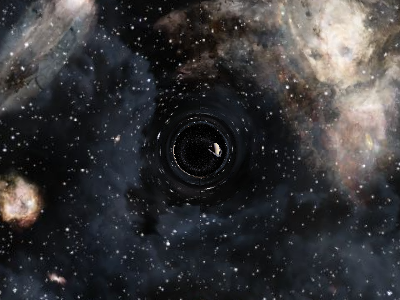
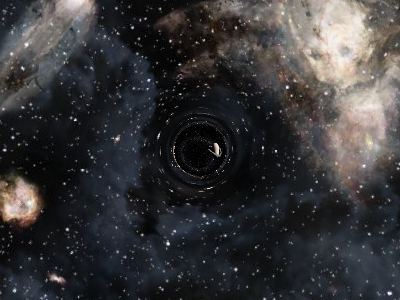
.

Changed region(s): [[0.42, 0.48, 0.45, 0.54], [0.54, 0.48, 0.57, 0.51]]

diff --git a/src/main.cpp b/src/main.cpp
@@ -6,6 +6,8 @@
 #include <vector>
 #include <iostream>
 #include <cmath>
+#include <glm/glm.hpp>
+#include <glm/gtc/matrix_transform.hpp>
 
 #include "src/utils/rgba.h"
 #include "src/raytrace.h"
@@ -77,6 +79,134 @@ RGBA sampleCelestial(const ImageData &img, double theta, double phi)
     return img.pixels[y * img.width + x];
 }
 
+// this function traces the rays using the equatorial symmetry method
+// see https://www.youtube.com/watch?v=PVO8nvb1o2w for the explanation of this method
+void renderEquatorial(RGBA *framebuffer,
+    int outWidth,
+    int outHeight,
+    const ImageData &sphereUpper,
+    const ImageData &sphereLower,
+    double fovW,
+    WormholeParams wp,
+    double dt,
+    double cameraDistance) {
+
+    // Camera setup
+    const double l_c     = cameraDistance;
+    const double theta_c = M_PI / 2.0; // equatorial
+    const double phi_c   = 0; // will eventually make changes to this
+
+    // Aspect ratio and vertical FOV
+    double aspect   = static_cast<double>(outHeight) / static_cast<double>(outWidth);
+
+    // Loop over pixels
+    double planeWidth = tan(fovW * 0.5);
+    double planeHeight = planeWidth * aspect;
+    double lengthDiagonal = sqrt(planeWidth*planeWidth + planeHeight*planeHeight);
+
+    // Integration constants (-0.01 seems good enough, but very slow...)
+    const double tMin = -200.0;
+    const double lMax = 20.0;
+
+    // compute the number of rays required to trace and store along the equator
+    const int precMultiplier = 2; // multiplier of the precision metric
+    int numRays = (outWidth + outHeight) * precMultiplier;
+    std::vector<RayState> rays(numRays+1);
+
+    // trace through the angles of these rays on the equatorial plane
+    for (int i = 0; i < numRays+1; i++) {
+        // Pinhole camera direction
+        double px = 1.0;
+        double py = lengthDiagonal * static_cast<double>(i) / static_cast<double>(numRays+1);
+        double pz = 0.0;
+
+        double normP = sqrt(px*px + py*py + pz*pz);
+        px /= normP;
+        py /= normP;
+        pz /= normP;
+
+        // Direction of incoming ray is -p
+        double n_l     = -px;
+        double n_phi   = -py;
+        double n_theta = pz;
+
+        // Initial state
+        RayState ray;
+        ray.l     = l_c;
+        ray.theta = theta_c;
+        ray.phi   = phi_c;
+
+        double r_c = r_of_l(ray.l, wp);
+
+        ray.p_l     = n_l;
+        ray.p_theta = r_c * n_theta;
+        ray.b       = r_c * sin(ray.theta) * n_phi;
+
+        // numerical integration
+        double t = 0.0;
+        while (t > tMin) {
+            rk4Step(ray, wp, dt);
+            if (abs(ray.l) > lMax) {
+                break;
+            }
+            t += dt;
+        }
+
+        // add the ray to the ray state
+        rays[i] = ray;
+    }
+
+    // sample the texture color based on the precomputed ray directions
+    for (int j = 0; j < outHeight; ++j) {
+        for (int i = 0; i < outWidth; ++i) {
+            int idx = j * outWidth + i;
+
+            // Normalized device coordinates in [-1,1]
+            double ndcW = 2.0 * ((i + 0.5) / static_cast<double>(outWidth))  - 1.0;
+            double ndcH = 2.0 * ((j + 0.5) / static_cast<double>(outHeight)) - 1.0;
+
+            // ray direction
+            glm::vec3 rayDir(1.0, planeWidth * (ndcW), planeHeight * (-ndcH));
+            glm::vec2 normalizedYZ = normalize(rayDir.yz());
+
+            // length at the yz-direction
+            double lengthYZ = length(rayDir.yz());
+            // get the precomputed ray
+            int rayInd = static_cast<int>(ceil(static_cast<double>(numRays) * (lengthYZ / lengthDiagonal)));
+            RayState equatorialRay = rays[rayInd];
+
+            // normalize the angles
+
+            // first, convert the final ray direction into a unit vector
+            glm::vec4 finalEuclidean(cos(equatorialRay.phi), sin(equatorialRay.phi), 0.0, 0.0);
+            // next, apply the transformation with respect to the tilting of the camera
+            glm::vec3 cameraDirection(cos(phi_c), sin(phi_c), 0.0);
+            // the angle to rotate about the camera direction
+            float angle = atan2(normalizedYZ.y, normalizedYZ.x);
+            glm::mat4 rotationMatrix = glm::rotate(glm::mat4(1.0f), angle, glm::normalize(cameraDirection));
+            glm::vec4 rotatedEuclidean = rotationMatrix * finalEuclidean;
+
+            float thetaFinal = acos(rotatedEuclidean[2] / length(rotatedEuclidean));
+            float phiFinal = atan2(rotatedEuclidean[1], rotatedEuclidean[0]);
+
+            // break into cases where l<0 and l>0
+            RGBA color = {0, 0, 0, 255};
+
+            if (abs(equatorialRay.l) > lMax) {
+                if (equatorialRay.l > 0.0) {
+                    color = sampleCelestial(sphereUpper, thetaFinal, phiFinal);
+                } else {
+                    color = sampleCelestial(sphereLower, thetaFinal, phiFinal);
+                }
+            } else {
+                color = {0, 0, 0, 255};
+            }
+
+            framebuffer[idx] = color;
+        }
+    }
+}
+
 // this function traces the rays
 void render(
     RGBA *framebuffer,
@@ -89,6 +219,7 @@ void render(
     double dt,
     double cameraDistance)
 {
+
     // Camera setup
     const double l_c     = cameraDistance;
     const double theta_c = M_PI / 2.0; // equatorial
@@ -218,7 +349,7 @@ int main(int argc, char *argv[]) {
     WormholeParams wp{scene.rho, scene.a, scene.M};
 
     // 4. Render using FOV from config (scene.viewPlaneWidthAngle is in radians)
-    render(framebuffer,
+    renderEquatorial(framebuffer,
            scene.outWidth,
            scene.outHeight,
            sphereUpper,
